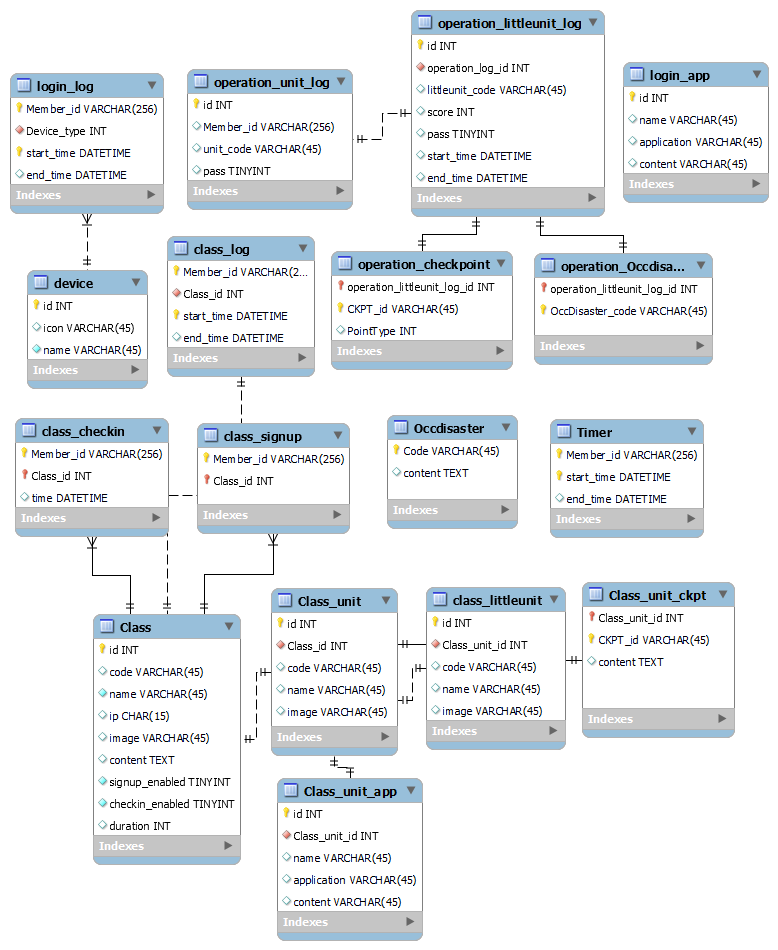
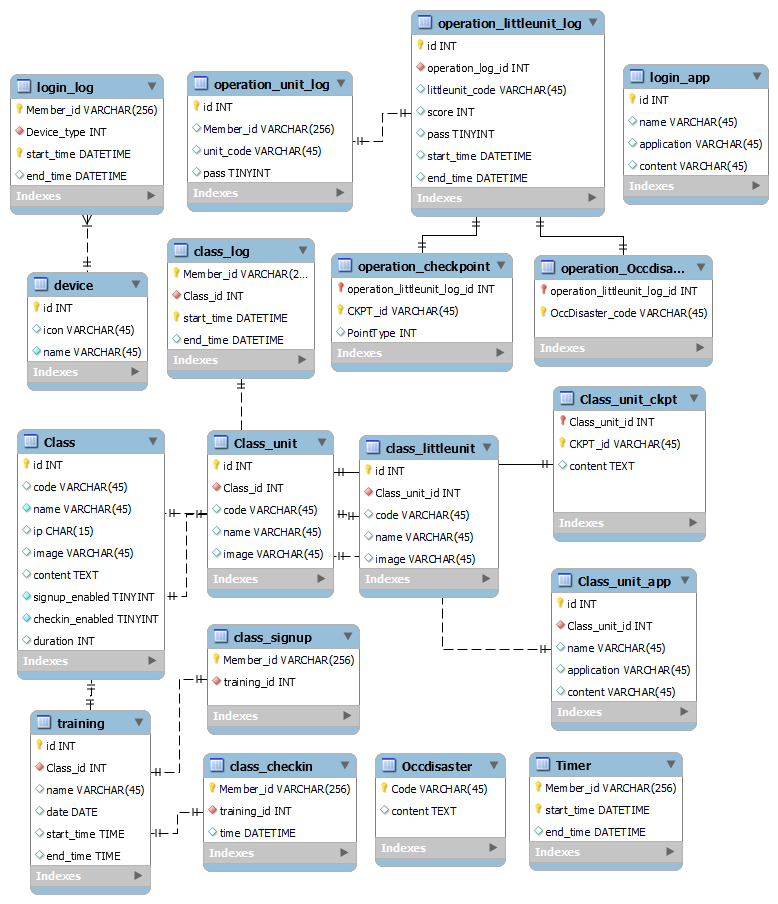
資料表加入training

diff --git a/FY111/Models/FY111/FY111Context.cs b/FY111/Models/FY111/FY111Context.cs
@@ -34,6 +34,7 @@ namespace FY111.Models.FY111
         public virtual DbSet<OperationOccdisaster> OperationOccdisasters { get; set; }
         public virtual DbSet<OperationUnitLog> OperationUnitLogs { get; set; }
         public virtual DbSet<Timer> Timers { get; set; }
+        public virtual DbSet<training> training { get; set; }
 
         protected override void OnConfiguring(DbContextOptionsBuilder optionsBuilder)
         {
@@ -85,28 +86,28 @@ namespace FY111.Models.FY111
 
             modelBuilder.Entity<ClassCheckin>(entity =>
             {
-                entity.HasKey(e => new { e.MemberId, e.ClassId })
+                entity.HasKey(e => e.MemberId)
                     .HasName("PRIMARY");
 
                 entity.ToTable("class_checkin");
 
-                entity.HasIndex(e => e.ClassId, "fk_Metaverse_has_Member_Metaverse1_idx");
+                entity.HasIndex(e => e.TrainingId, "fk_class_checkin_training1_idx");
 
                 entity.Property(e => e.MemberId)
                     .HasMaxLength(256)
                     .HasColumnName("Member_id");
 
-                entity.Property(e => e.ClassId).HasColumnName("Class_id");
-
                 entity.Property(e => e.Time)
                     .HasColumnName("time")
                     .HasDefaultValueSql("CURRENT_TIMESTAMP");
 
-                entity.HasOne(d => d.Class)
+                entity.Property(e => e.TrainingId).HasColumnName("training_id");
+
+                entity.HasOne(d => d.Training)
                     .WithMany(p => p.ClassCheckins)
-                    .HasForeignKey(d => d.ClassId)
+                    .HasForeignKey(d => d.TrainingId)
                     .OnDelete(DeleteBehavior.ClientSetNull)
-                    .HasConstraintName("fk_Metaverse_has_Member_Metaverse1");
+                    .HasConstraintName("fk_class_checkin_training1");
             });
 
             modelBuilder.Entity<ClassLittleunit>(entity =>
@@ -166,24 +167,24 @@ namespace FY111.Models.FY111
 
             modelBuilder.Entity<ClassSignup>(entity =>
             {
-                entity.HasKey(e => new { e.MemberId, e.ClassId })
+                entity.HasKey(e => e.MemberId)
                     .HasName("PRIMARY");
 
                 entity.ToTable("class_signup");
 
-                entity.HasIndex(e => e.ClassId, "fk_Metaverse_has_Member_Metaverse2_idx");
+                entity.HasIndex(e => e.TrainingId, "fk_class_signup_training1_idx");
 
                 entity.Property(e => e.MemberId)
                     .HasMaxLength(256)
                     .HasColumnName("Member_id");
 
-                entity.Property(e => e.ClassId).HasColumnName("Class_id");
+                entity.Property(e => e.TrainingId).HasColumnName("training_id");
 
-                entity.HasOne(d => d.Class)
+                entity.HasOne(d => d.Training)
                     .WithMany(p => p.ClassSignups)
-                    .HasForeignKey(d => d.ClassId)
+                    .HasForeignKey(d => d.TrainingId)
                     .OnDelete(DeleteBehavior.ClientSetNull)
-                    .HasConstraintName("fk_Metaverse_has_Member_Metaverse2");
+                    .HasConstraintName("fk_class_signup_training1");
             });
 
             modelBuilder.Entity<ClassUnit>(entity =>
@@ -449,6 +450,33 @@ namespace FY111.Models.FY111
                 entity.Property(e => e.StartTime).HasColumnName("start_time");
 
                 entity.Property(e => e.EndTime).HasColumnName("end_time");
+            });
+
+            modelBuilder.Entity<training>(entity =>
+            {
+                entity.HasIndex(e => e.ClassId, "fk_training_Class1_idx");
+
+                entity.Property(e => e.Id).HasColumnName("id");
+
+                entity.Property(e => e.ClassId).HasColumnName("Class_id");
+
+                entity.Property(e => e.Date)
+                    .HasColumnType("date")
+                    .HasColumnName("date");
+
+                entity.Property(e => e.EndTime).HasColumnName("end_time");
+
+                entity.Property(e => e.Name)
+                    .HasMaxLength(45)
+                    .HasColumnName("name");
+
+                entity.Property(e => e.StartTime).HasColumnName("start_time");
+
+                entity.HasOne(d => d.Class)
+                    .WithMany(p => p.training)
+                    .HasForeignKey(d => d.ClassId)
+                    .OnDelete(DeleteBehavior.ClientSetNull)
+                    .HasConstraintName("fk_training_Class1");
             });
 
             OnModelCreatingPartial(modelBuilder);

diff --git a/FY111/Models/FY111/Class.cs b/FY111/Models/FY111/Class.cs
@@ -11,10 +11,9 @@ namespace FY111.Models.FY111
     {
         public Class()
         {
-            ClassCheckins = new HashSet<ClassCheckin>();
             ClassLogs = new HashSet<ClassLog>();
-            ClassSignups = new HashSet<ClassSignup>();
             ClassUnits = new HashSet<ClassUnit>();
+            training = new HashSet<training>();
         }
 
         public int Id { get; set; }
@@ -43,9 +42,8 @@ namespace FY111.Models.FY111
         [Display(Name = "Duration", ResourceType = typeof(DisplayAttributeResources))]
         public int? Duration { get; set; }
 
-        public virtual ICollection<ClassCheckin> ClassCheckins { get; set; }
         public virtual ICollection<ClassLog> ClassLogs { get; set; }
-        public virtual ICollection<ClassSignup> ClassSignups { get; set; }
         public virtual ICollection<ClassUnit> ClassUnits { get; set; }
+        public virtual ICollection<training> training { get; set; }
     }
 }

diff --git a/FY111/Models/FY111/training.cs b/FY111/Models/FY111/training.cs
@@ -1,0 +1,27 @@
+using System;
+using System.Collections.Generic;
+
+#nullable disable
+
+namespace FY111.Models.FY111
+{
+    public partial class training
+    {
+        public training()
+        {
+            ClassCheckins = new HashSet<ClassCheckin>();
+            ClassSignups = new HashSet<ClassSignup>();
+        }
+
+        public int Id { get; set; }
+        public int ClassId { get; set; }
+        public string Name { get; set; }
+        public DateTime? Date { get; set; }
+        public TimeSpan? StartTime { get; set; }
+        public TimeSpan? EndTime { get; set; }
+
+        public virtual Class Class { get; set; }
+        public virtual ICollection<ClassCheckin> ClassCheckins { get; set; }
+        public virtual ICollection<ClassSignup> ClassSignups { get; set; }
+    }
+}

diff --git a/FY111/Models/FY111/ClassCheckin.cs b/FY111/Models/FY111/ClassCheckin.cs
@@ -8,9 +8,9 @@ namespace FY111.Models.FY111
     public partial class ClassCheckin
     {
         public string MemberId { get; set; }
-        public int ClassId { get; set; }
+        public int TrainingId { get; set; }
         public DateTime? Time { get; set; }
 
-        public virtual Class Class { get; set; }
+        public virtual training Training { get; set; }
     }
 }

diff --git a/FY111/Models/FY111/ClassSignup.cs b/FY111/Models/FY111/ClassSignup.cs
@@ -8,8 +8,8 @@ namespace FY111.Models.FY111
     public partial class ClassSignup
     {
         public string MemberId { get; set; }
-        public int ClassId { get; set; }
+        public int TrainingId { get; set; }
 
-        public virtual Class Class { get; set; }
+        public virtual training Training { get; set; }
     }
 }
